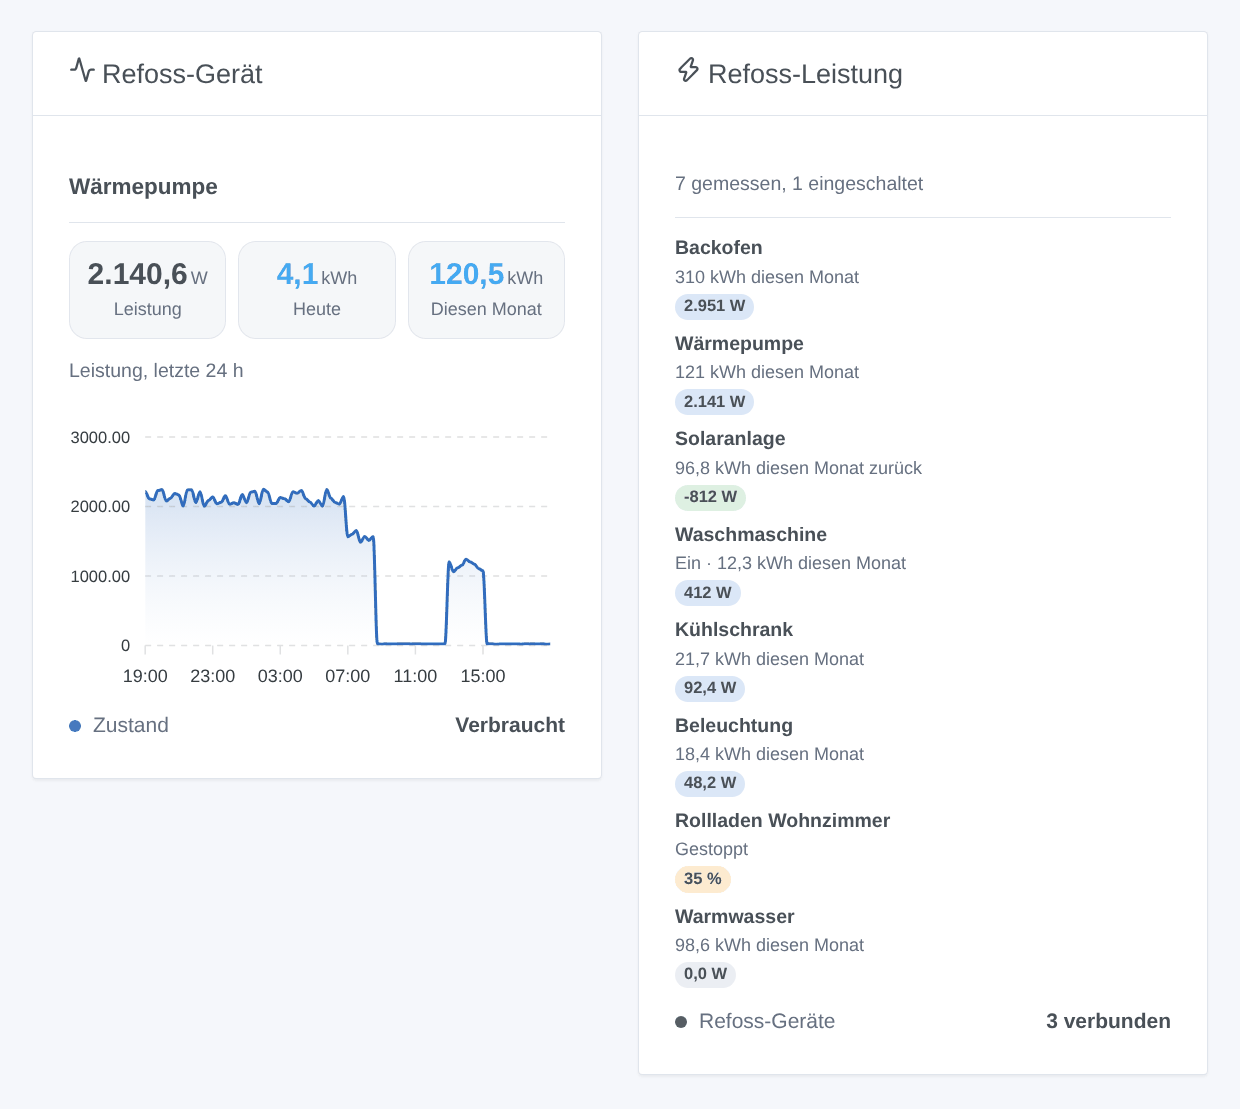
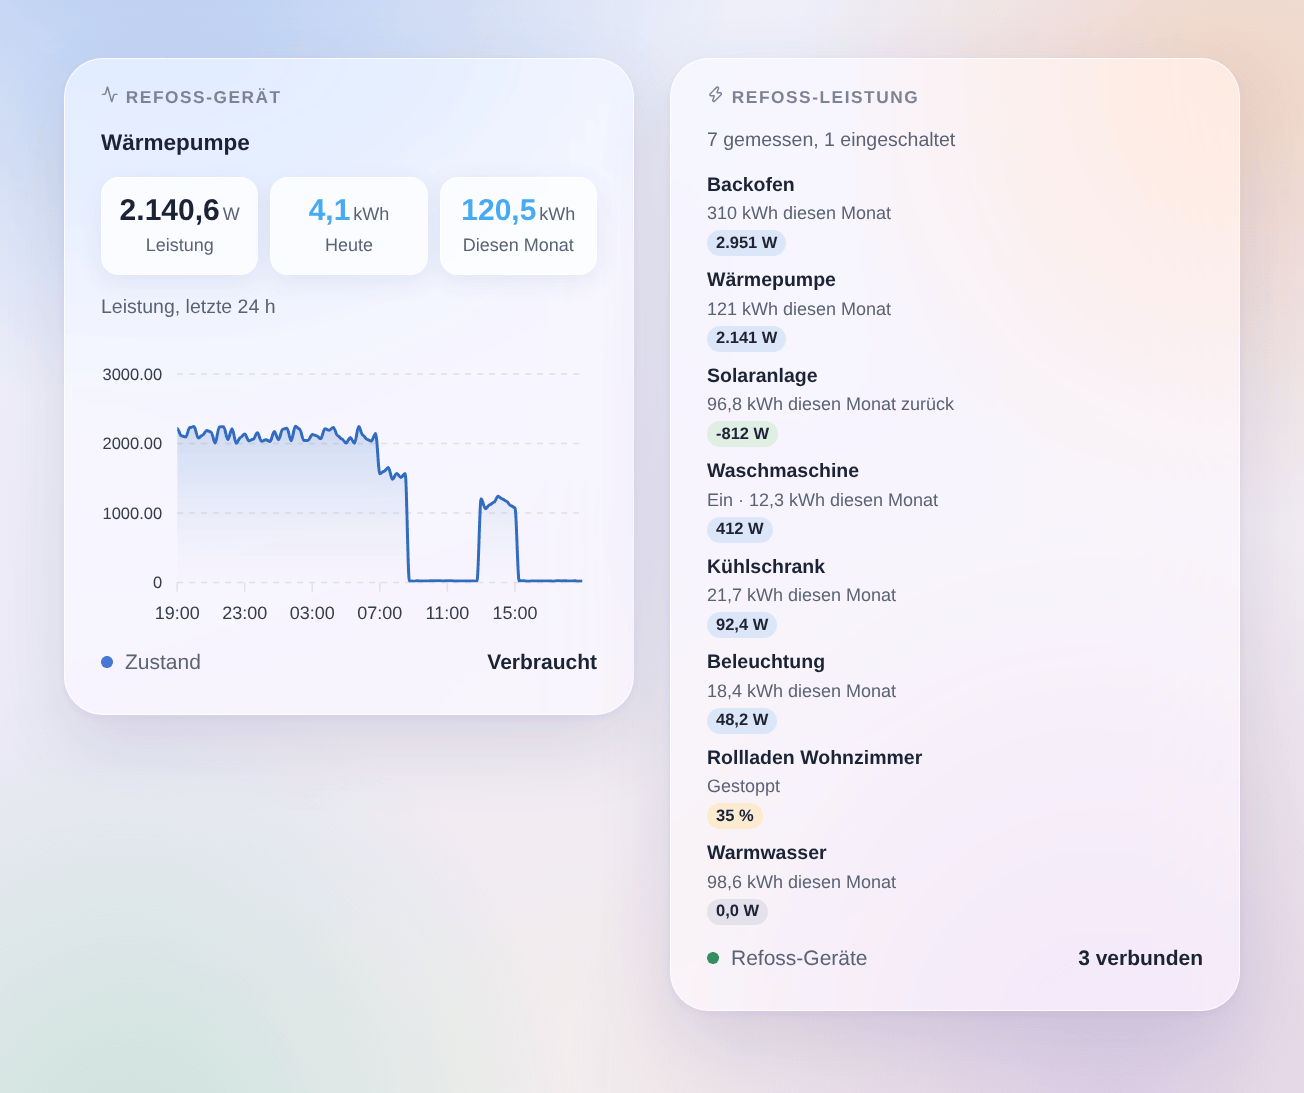
docs: widget illustrations in the Gladys 5 look (Horizon glass dashboard)
The illustrations used the Gladys v4 card look. render.sh now takes the styles of the current Gladys front, adds the Horizon dashboard theme (glass cards, uppercase title, default scene) and quantizes with libimagequant so the small colored dots survive the gradient.

diff --git a/docs/illustrations/index.html b/docs/illustrations/index.html
@@ -5,10 +5,25 @@
     <link rel="stylesheet" href="vendor/theme/package/dashboard.css" />
     <link rel="stylesheet" href="widget.css" />
     <link rel="stylesheet" href="dark-mode.css" />
+    <link rel="stylesheet" href="horizon.css" />
     <style>
       body {
-        background: #f5f7fb;
-        padding: 24px;
+        background: #fff;
+        margin: 0;
+        padding: 8px;
+      }
+      /* the page header of the theme shares the class name of the widget
+         header slot (a CSS module class in Gladys): keep it off the widget */
+      .card .header {
+        padding: 0;
+        background: none;
+        border-bottom: 0;
+      }
+      /* the dashboard scene, a margin around the cards for their shadow */
+      #stage {
+        display: inline-block;
+        overflow: hidden;
+        padding: 40px 44px 56px;
       }
       #row {
         display: flex;
@@ -28,7 +43,7 @@
     <script src="data.js"></script>
   </head>
   <body>
-    <div id="row"></div>
+    <div id="stage" class="glass-theme glassScene"><div id="row"></div></div>
     <script>
       if (new URLSearchParams(location.search).get('theme') === 'dark') {
         document.documentElement.classList.add('dark-mode');
